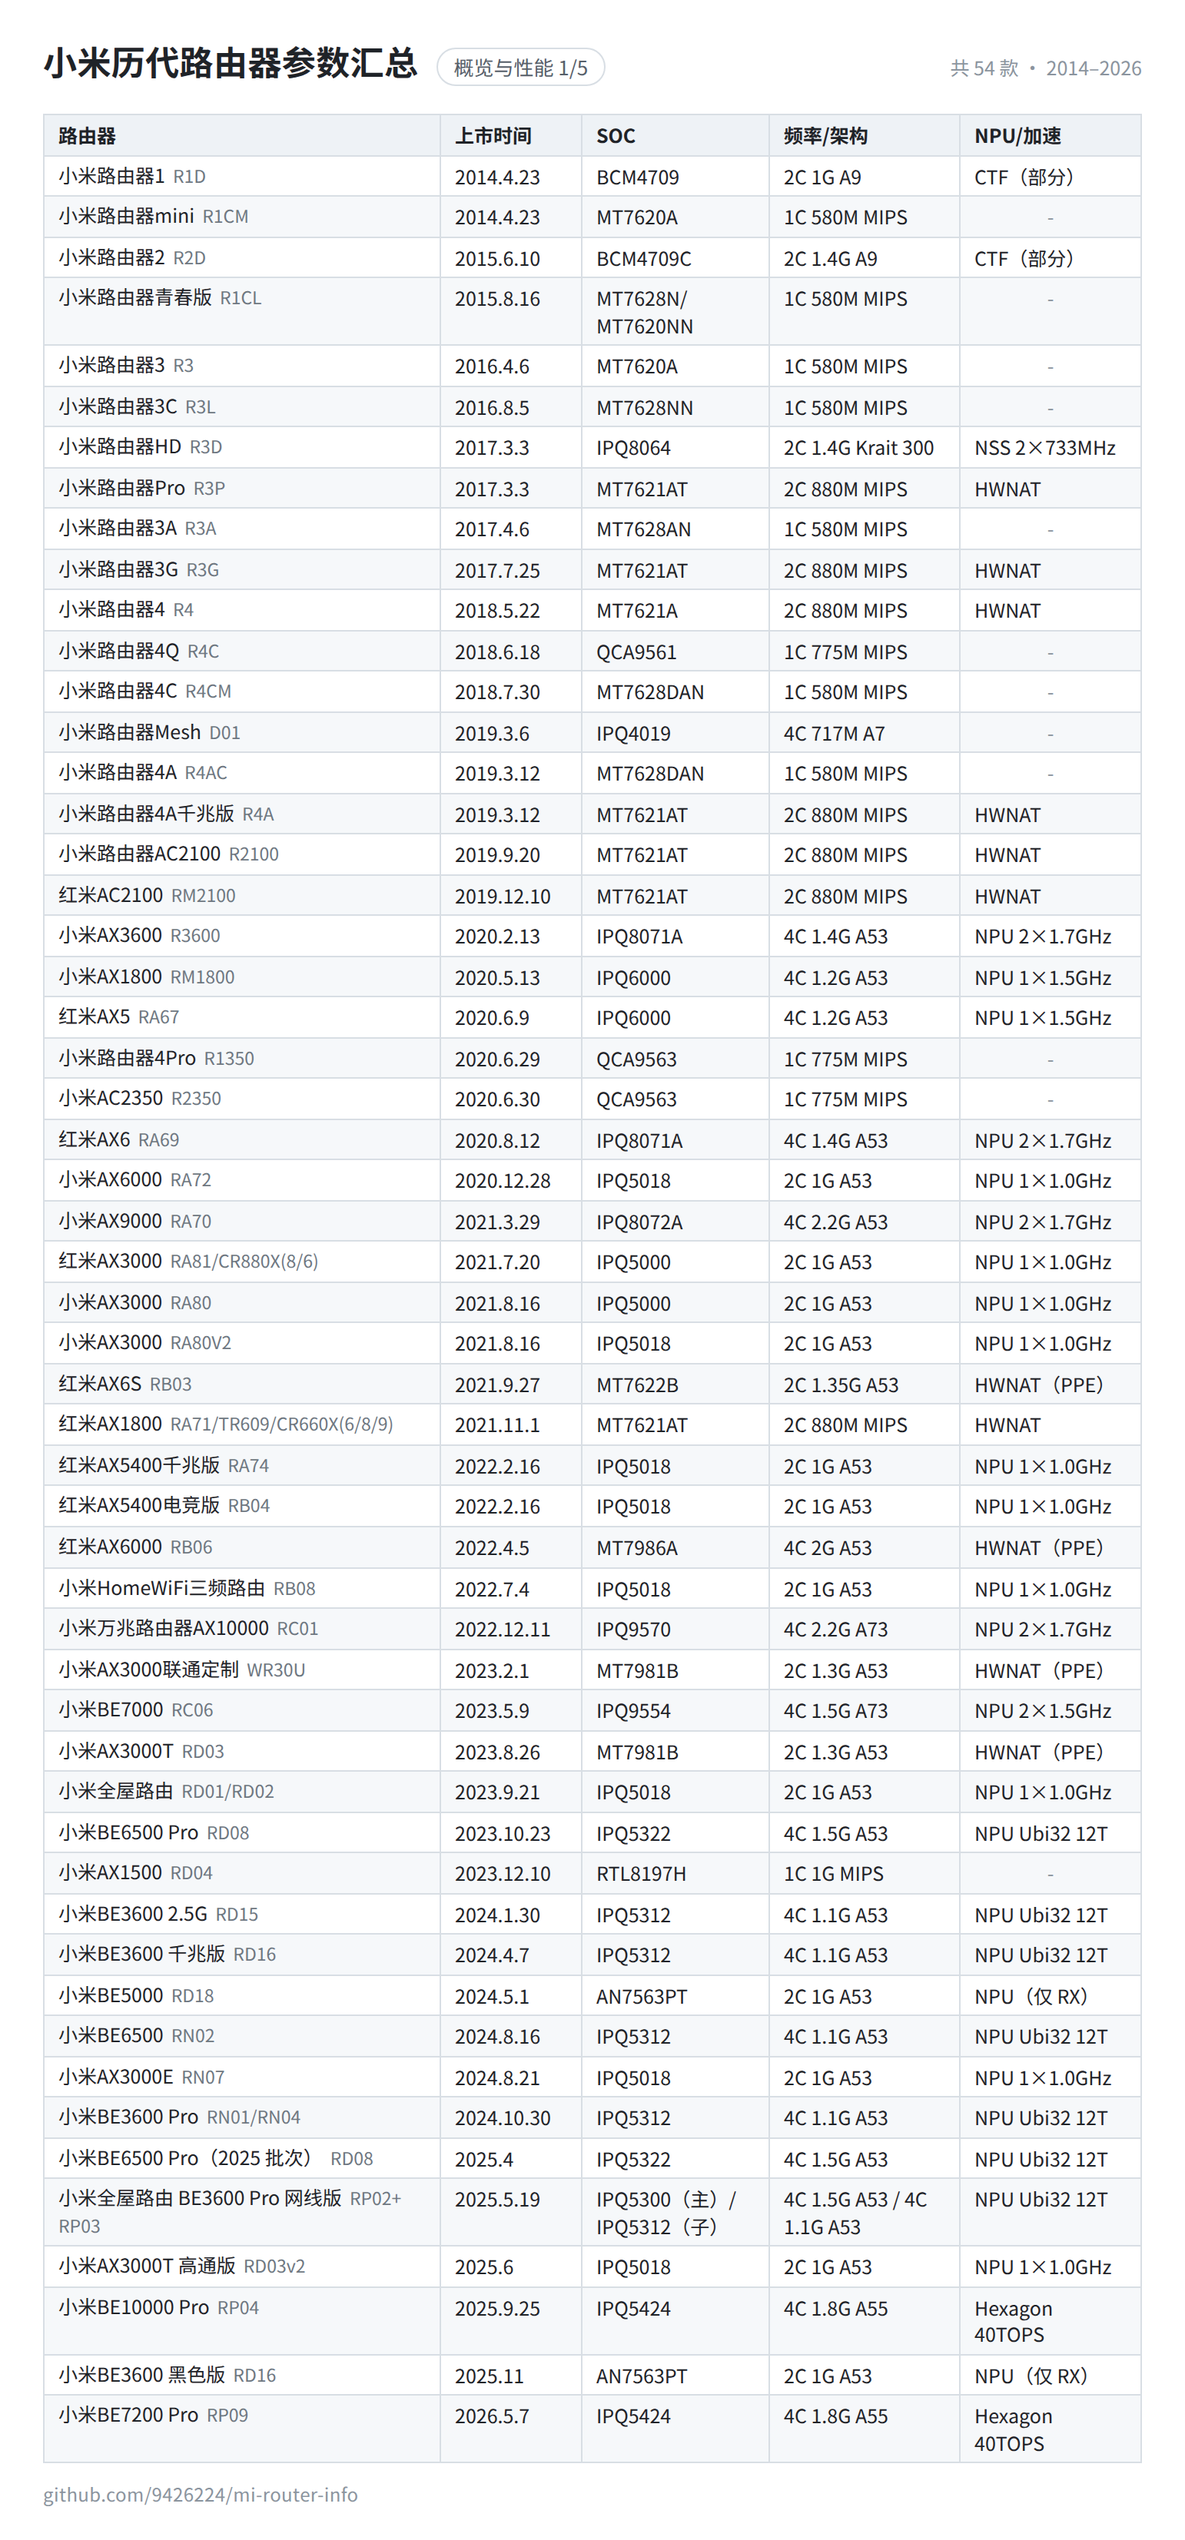
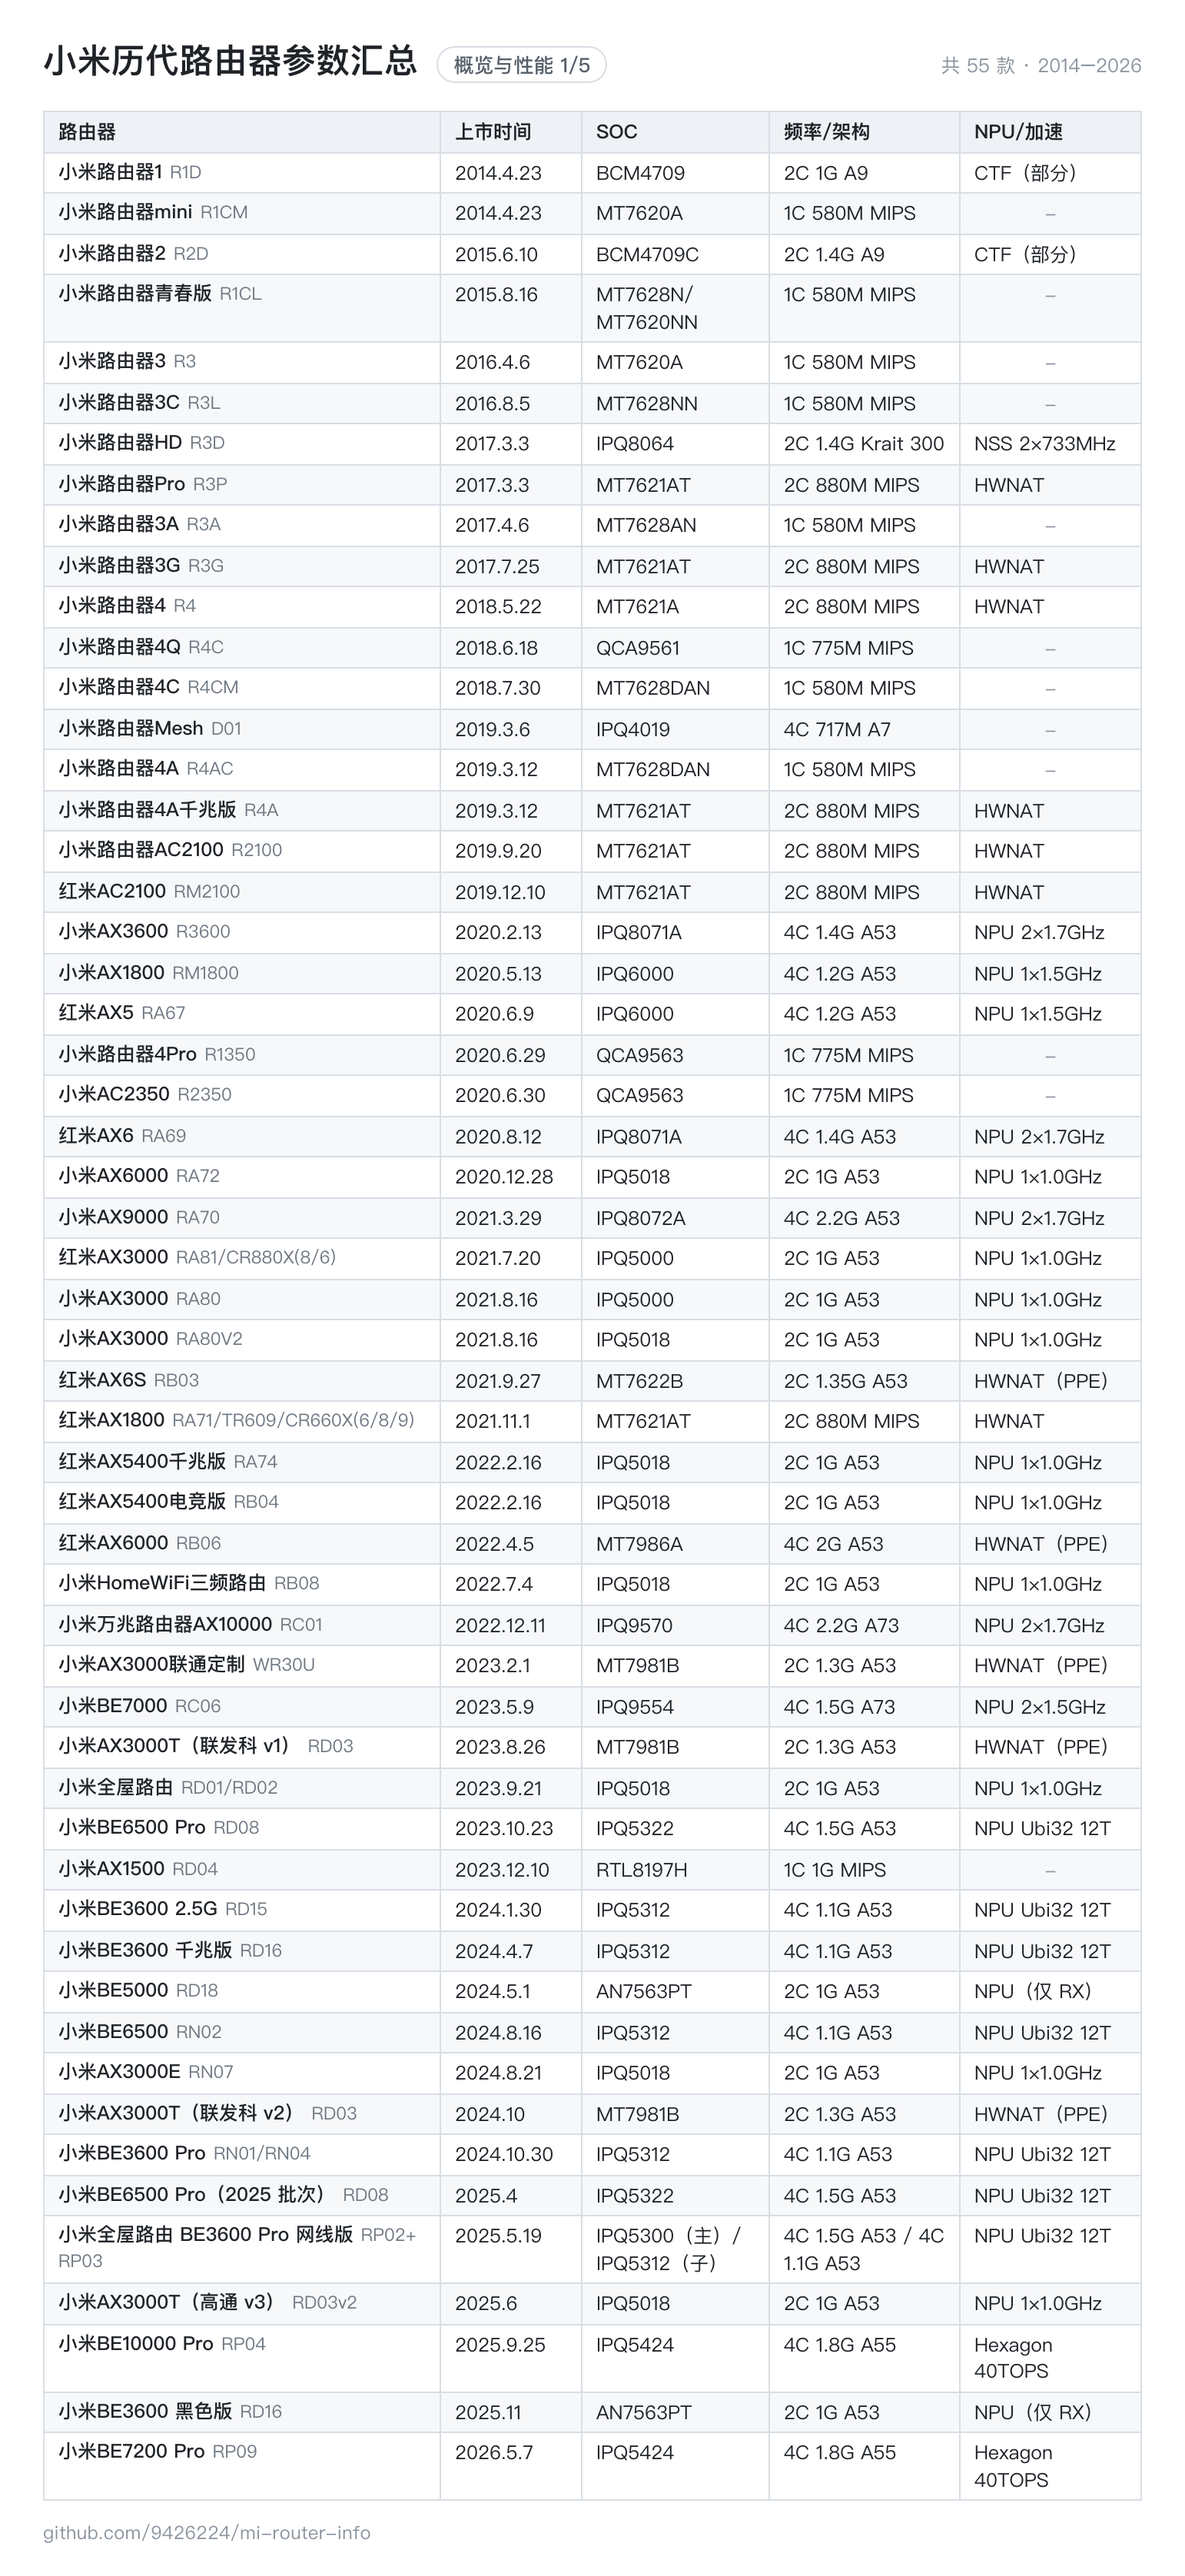
feat: AX3000T 三个硬件版本全部单列 (v0.5.1)
- 新增小米AX3000T（联发科 v2）行，v1/v2/v3 名称带版本号
- v2 的交换/闪存/内存料号未确认，保留 - 并在备注说明
- 主表 55 款型号，版本 0.5.1

diff --git a/docs/variants.md b/docs/variants.md
@@ -23,7 +23,7 @@ RD16 的千兆版和黑色版型号相同但主控完全不同：前者是高通
 | v2   | RD03   | MT7981B | 已换料         | 仍为联发科方案，但交换芯片、闪存、内存均已更换；具体料号未确认 |
 | v3   | RD03v2 | IPQ5018 | 256M / 128M    | 2025.6 起换高通方案，散热缩水，仅米家 App；主表单独一行        |
 
-v1 与 v2 外观、型号相同，只能通过批次或拆机区分；v2 的固件与早期版本不完全通用。v3 是另一套高通方案，内存/闪存容量相同，但 CPU 从四核 1.3GHz 降到双核 1GHz。
+v1、v2、v3 均已单独进主表。v1 与 v2 外观、型号相同，只能通过批次或拆机区分；v2 的固件与早期版本不完全通用。v3 是另一套高通方案，内存/闪存容量相同，但 CPU 从四核 1.3GHz 降到双核 1GHz。
 
 来源：[高通版拆机](https://www.acwifi.net/32952.html)、[OpenWrt RD03v2](https://github.com/ADCDS/openwrt-xiaomi-ax3000t-rd03v2)、[换料讨论](https://bbs.nga.cn/read.php?tid=44508372)。
 

diff --git a/docs/gaps.md b/docs/gaps.md
@@ -33,7 +33,7 @@
 
 主表一行只记一个主批次，下面这些在 [variants.md](variants.md) 里有说明，但没有单独占一行：
 
-- 小米AX3000T 的 v2（仍为 MT7981B，但交换/闪存/内存换料，具体料号未确认）目前只记在 variants.md，没有单独进主表。
+- 小米AX3000T 的 v2（仍为 MT7981B，但交换/闪存/内存换料）已单独进主表；具体料号仍未确认。
 - 小米BE6500 Pro 的 2025.4 起批次已单独进主表；更晚的批次是否还有换料，暂无资料。
 - 小米BE3600 千兆版（RD16，2024 高通）与黑色版（AN7563PT）都已单独进主表；黑色批次的首销日期按 2025.11 估算，拆机时间为 2026.6。
 - 小米BE3600 Pro 的单只/套装硬件相同，只在备注里区分。

diff --git a/CHANGELOG.md b/CHANGELOG.md
@@ -1,5 +1,11 @@
 # 更新记录
 
+## 0.5.1 - 2026-11-23
+
+- 新增小米 AX3000T（联发科 v2）一行；v1/v2/v3 三个硬件版本全部单列，名称带版本号
+- 备注补充 v2 的换料范围和批次时间估算
+- 主表 55 款型号
+
 ## 0.5.0 - 2026-11-23
 
 把缩水/换料批次收进主表，并新增备注列。

diff --git a/README.md b/README.md
@@ -10,7 +10,7 @@
 
 <!-- STATS:START -->
 
-**54 款型号** · 上市时间 2014–2026 · 22 项参数 · 数据源 [`data/routers.csv`](data/routers.csv)
+**55 款型号** · 上市时间 2014–2026 · 22 项参数 · 数据源 [`data/routers.csv`](data/routers.csv)
 <!-- STATS:END -->
 
 ## 图片版
